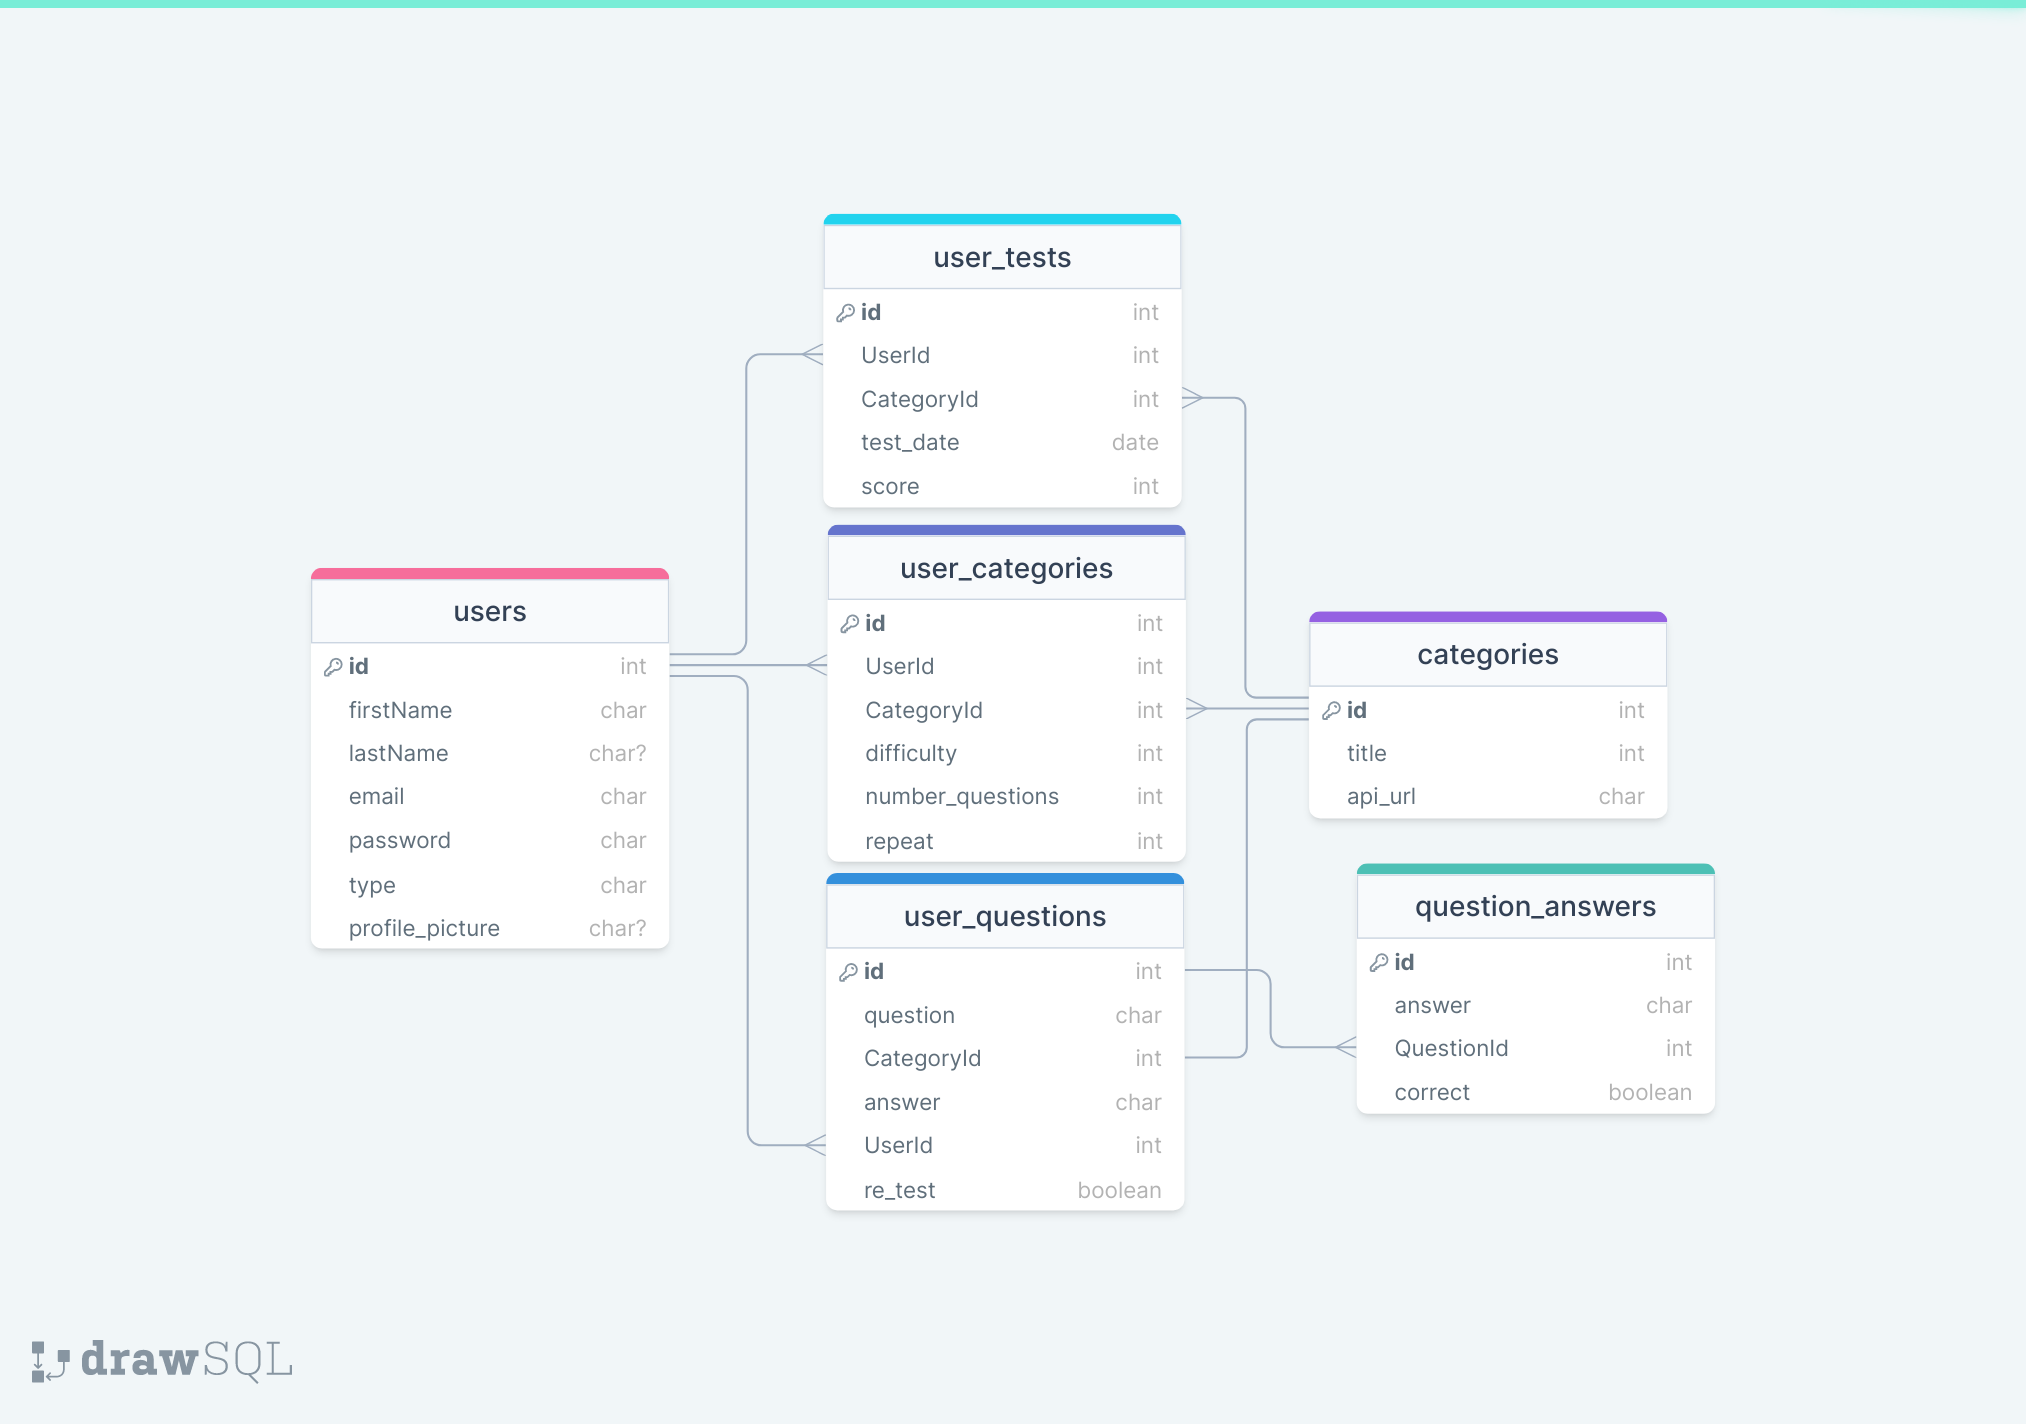
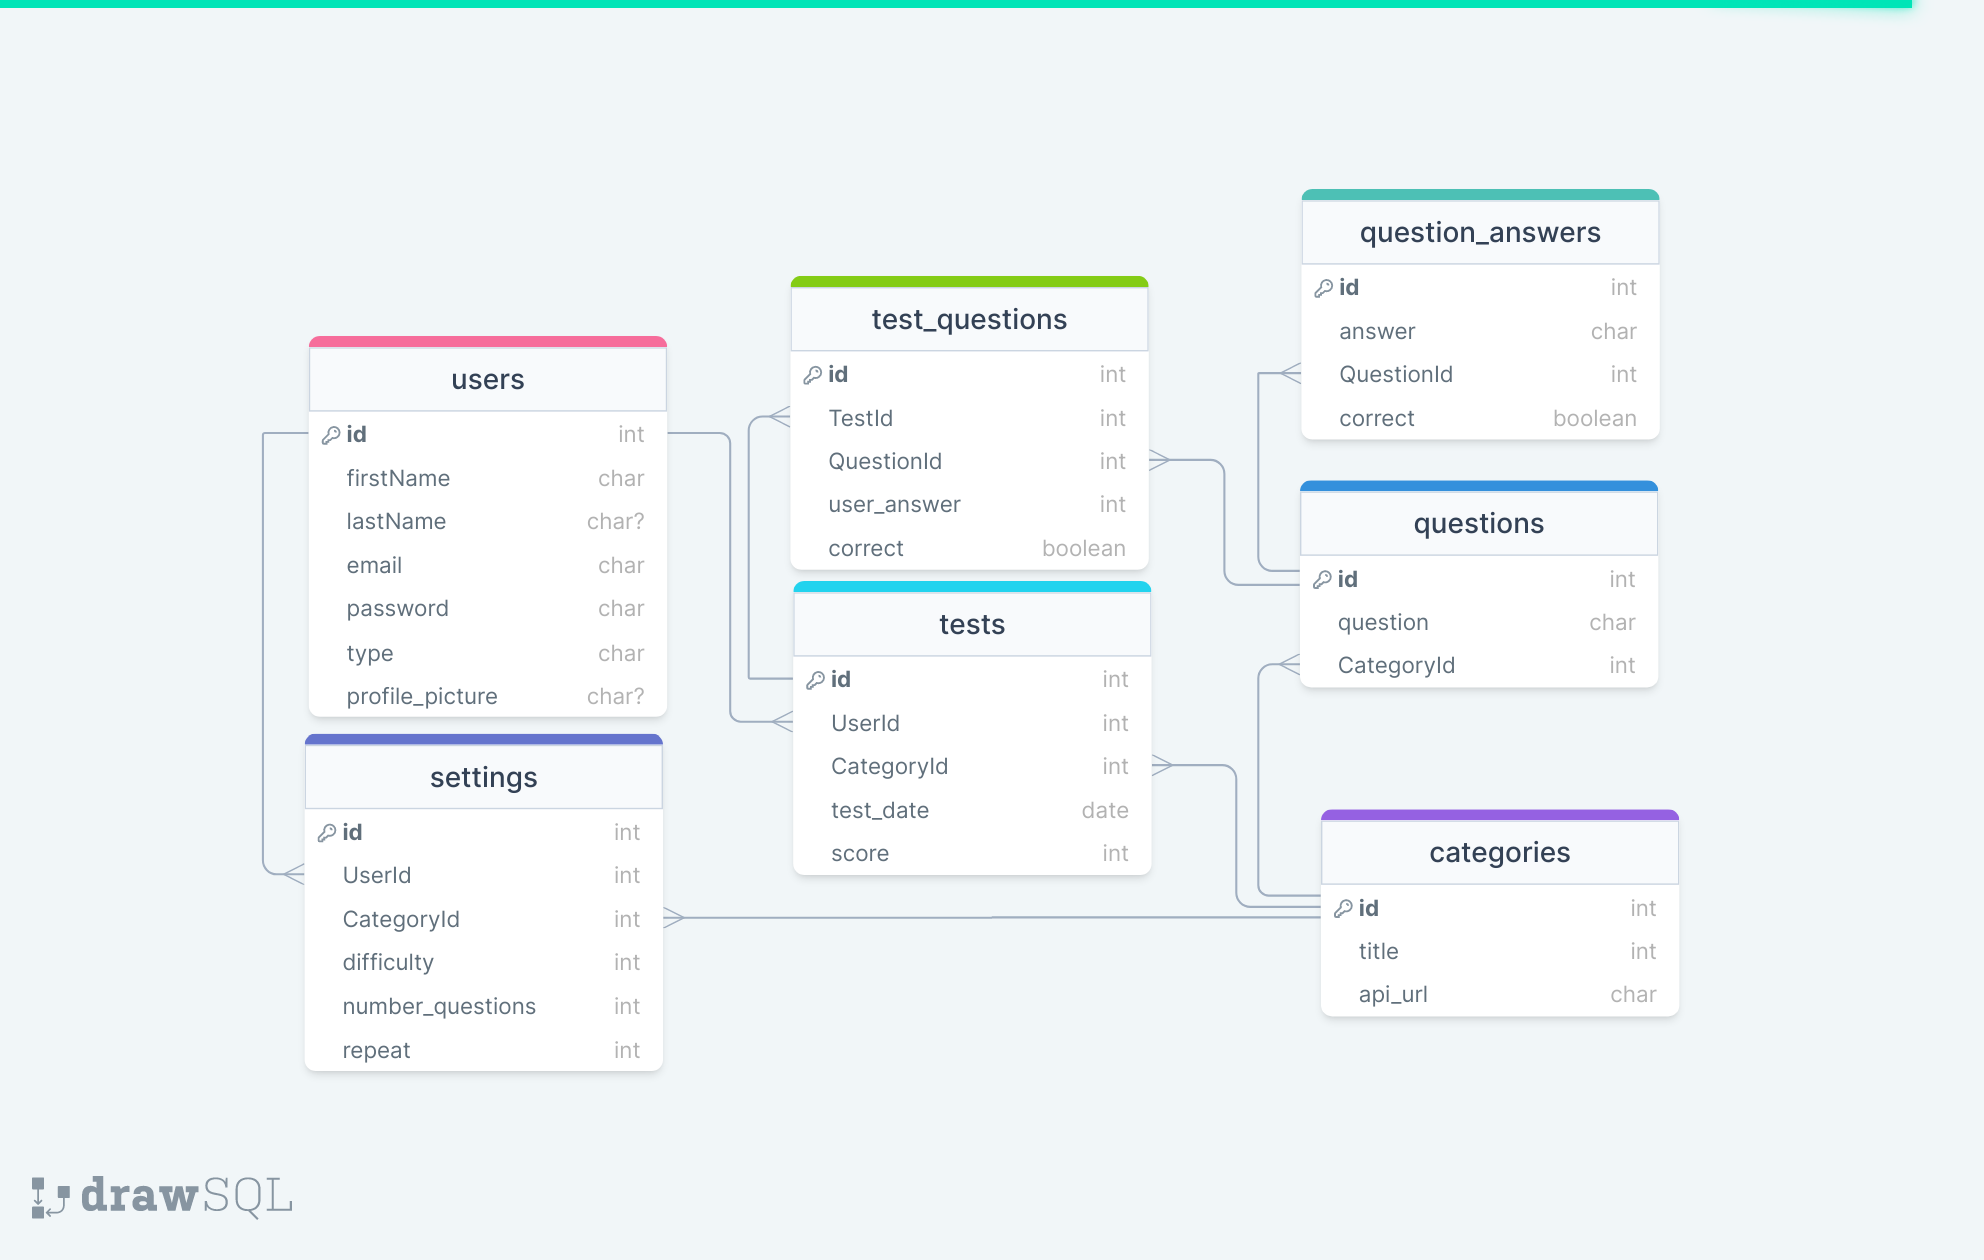
user answers and test details save to db

diff --git a/pages/quiz-list/new.js b/pages/quiz-list/new.js
@@ -1,7 +1,7 @@
-import React from "react"
+import React, { useState } from "react"
 import UserContext from '../userContext';
 import Question from "../../components/Question";
-import { getSession } from "next-auth/react";
+import { getSession, useSession } from "next-auth/react";
 import userController from "../../controllers/userController";
 import styles from "../../styles/quiz.module.css"
 import MainHeader from "../../components/MainHeader";
@@ -18,22 +18,25 @@ export default function Questions(props){
         checked : false,
         score : 0
     })
+    const [userAnswers,setUserAnswers] = useState([])
     React.useEffect(function(){
         let controller = new AbortController()
         fetch(`https://opentdb.com/api.php?amount=${number}&category=${category}&difficulty=${difficulty}&type=multiple&encode=base64`,{signal: controller.signal})
             .then(res => res.json())
-            .then(data=>setDbData(data.results))
+            .then(data=>{
+                const postData = {data:data.results,category_id:category_id}
+                fetch("/api/quiz/saveQuestions",{
+                    method: "POST",
+                    body: JSON.stringify(postData),
+                })//.then(response=>response.json()).then(inserted=>console.log('whit idsss',inserted))
+                setDbData(data.results)
+            })
         return function(){
             controller.abort()
         }
     },[])
     React.useEffect(function(){
-        const data = {data:dbData,category_id:category_id}
-        const response=fetch("/api/quiz/saveQuestions",{
-            method: "POST",
-            body: JSON.stringify(data),
-        })
-        //response.then(res=>res.json()).then(data=>data)
+        
         const answersElement = []
         for(let i=0;i<dbData.length;i++){
             let item = dbData[i]
@@ -66,11 +69,22 @@ export default function Questions(props){
             setQuestionElement([])
         }
     },[answers])
+    React.useEffect(function(){
+        //save users answers
+        console.log('berefore send',userAnswers)
+        const postData = {data:userAnswers,score:isChecked.score,category_id:category_id,user_id:currentUser.id}
+        fetch("/api/quiz/saveUserAnswers",{
+            method: "POST",
+            body: JSON.stringify(postData),
+        })
+    },[isChecked])
     function checkAnswers(){
         const answersElement = []
+        let userAnswersArray = []
         let totalScore = 0
         //loop through questions object
         for (const [key,answer] of Object.entries(answers)) {
+
             const answersList =[]
             //loop through every question answers object
             for (const [no, item] of Object.entries(answer)) {
@@ -82,14 +96,18 @@ export default function Questions(props){
                     {...item,correctStyle:"#94D7A2","isChecked":true}
                 : item.selected ? {...item,correctStyle:"#F8BCBC","isChecked":true} : {...item,"isChecked":true}
             }
+            userAnswersArray.push({question:key,answers:answersList})
             answersElement[key] = answersList
         }
+        setUserAnswers(userAnswersArray)
         setAnswers(answersElement)
         setIsChecked({
             checked : true,
             score : totalScore
         })
+        
     }
+    
     function handleSelect(id,name){
         const answersElement = []
         for (const [key,answer] of Object.entries(answers)) {

diff --git a/controllers/quizController.js b/controllers/quizController.js
@@ -5,29 +5,78 @@ const quizController = {
   
   saveQuestions: async data =>{
     let questionAnswers = []
-    const array = data.data.map(item=>{
-        questionAnswers[item.question] = [...new Set(item.incorrect_answers)]
-        questionAnswers[item.question].push(item.correct_answer)
-        return {
-            question: item.question,
-            CategoryId: data.category_id
+    let allQuestions = []
+    //loop through the data(all questions and their answers) from API for bulk insertion
+    for (const item of data.data) {
+        const dbQuestion = await db.Question.findOne({
+            where:{
+                question: item.question
+            }
+        })
+        if(!dbQuestion){
+            //get all the answers of a question
+            questionAnswers[item.question] = [...new Set(item.incorrect_answers)]
+            questionAnswers[item.question].push(item.correct_answer)
+            allQuestions.push({
+                question: item.question,
+                CategoryId: data.category_id
+            })
         }
-    })
-    const newArray = await db.Question.bulkCreate(array)
+    }
+    //insert all the questions to DB
+    const newArray = await db.Question.bulkCreate(allQuestions)
     let questionAnserArray = []
+    //loop through inserted questions array
     const answers = newArray.map(item=>{
+        
         const answerOptions = item.dataValues
-        const eachQuestionAnswers = questionAnswers[answerOptions.question]
-        const eqchquestionAnserArray = eachQuestionAnswers.map(item=>{
+        const eachQuestionAnswers = questionAnswers[answerOptions.question]//all answers of the question
+        const eqchquestionAnserArray = eachQuestionAnswers.map((item,index)=>{
+            let correct=false
+            index===3 ? correct=true : correct=false
             return {
                 answer: item,
                 QuestionId: answerOptions.id,
-                correct:false
+                correct:correct
             }
         })
         questionAnserArray.push(...eqchquestionAnserArray)
     })
     await db.Question_answer.bulkCreate(questionAnserArray)
+    
+    //return JSON.parse(JSON.stringify(arrayToReturn));
+  },
+  saveUserAnswers: async data =>{
+    //insert new record in tests table
+    const test = await db.Test.create({
+        UserId: data.user_id,
+        CategoryId: data.category_id,
+        score: data.score,
+        test_date: new Date()
+    })
+    const testId = test.dataValues.id
+    //then insert the question to test_questions table with user answers
+    //console.log('test id',testId)
+    const userAnswerQuestions = []
+    //loop through the data(all questions and their answers) from API for bulk insertion
+    for (const item of data.data) {
+        //get all the answers of a question
+        const questionId = await db.Question.findOne({
+            where:{
+                question: item.question
+            }
+        })
+        const userAnswer = item.answers.find(toCheck=>toCheck.selected)
+            userAnswerQuestions.push({
+                TestId: testId,
+                QuestionId: questionId.id,
+                user_answer:userAnswer.name,
+                correct:userAnswer.isCorrect
+            })
+    }
+    console.log('to be saved',userAnswerQuestions)
+    await db.Test_question.bulkCreate(userAnswerQuestions)
+    
   },
   
 }

diff --git a/pages/api/quiz/saveQuestions.js b/pages/api/quiz/saveQuestions.js
@@ -5,8 +5,11 @@ export default function handler(req, res) {
     console.log('herer',data)
     if(data.data.length>0)
     {
-        quizController.saveQuestions(data)
+        const result = quizController.saveQuestions(data)
+        //console.log('resutls',result)
+         // Then save the post data to a database
+        res.status(200).json({ message: result});
     }
-    // Then save the post data to a database
-    res.status(200).json({ message: "saved" });
+     res.status(400).json({ message: "not saved" });
+   
   }

diff --git a/pages/api/quiz/saveUserAnswers.js b/pages/api/quiz/saveUserAnswers.js
@@ -1,0 +1,12 @@
+import quizController from "../../../controllers/quizController";
+
+export default function handler(req, res) {
+    const data = JSON.parse(req.body);
+    if(data.data.length>0)
+    {
+        quizController.saveUserAnswers(data)
+        // Then save the post data to a database
+        res.status(200).json({ message: "saved" });
+    }
+    res.status(400).json({ message: "not saved" });
+  }

diff --git a/database/models/test_question.js b/database/models/test_question.js
@@ -17,7 +17,7 @@ const initTest_question = (sequelize, DataTypes) => {
   Test_question.init({
     TestId: DataTypes.INTEGER,
     QuestionId: DataTypes.INTEGER,
-    user_answer: DataTypes.INTEGER,
+    user_answer: DataTypes.STRING,
     correct: DataTypes.BOOLEAN
   }, {
     sequelize,

diff --git a/database/migrations/20221206145319-create-test-question.js b/database/migrations/20221206145319-create-test-question.js
@@ -16,7 +16,7 @@ module.exports = {
         type: Sequelize.INTEGER
       },
       user_answer: {
-        type: Sequelize.INTEGER
+        type: Sequelize.STRING
       },
       correct: {
         type: Sequelize.BOOLEAN
